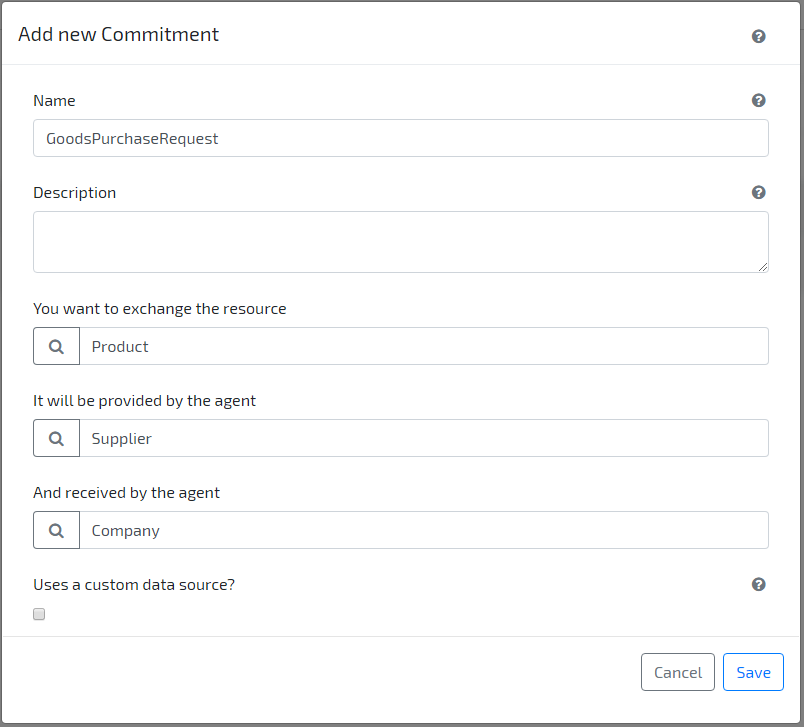
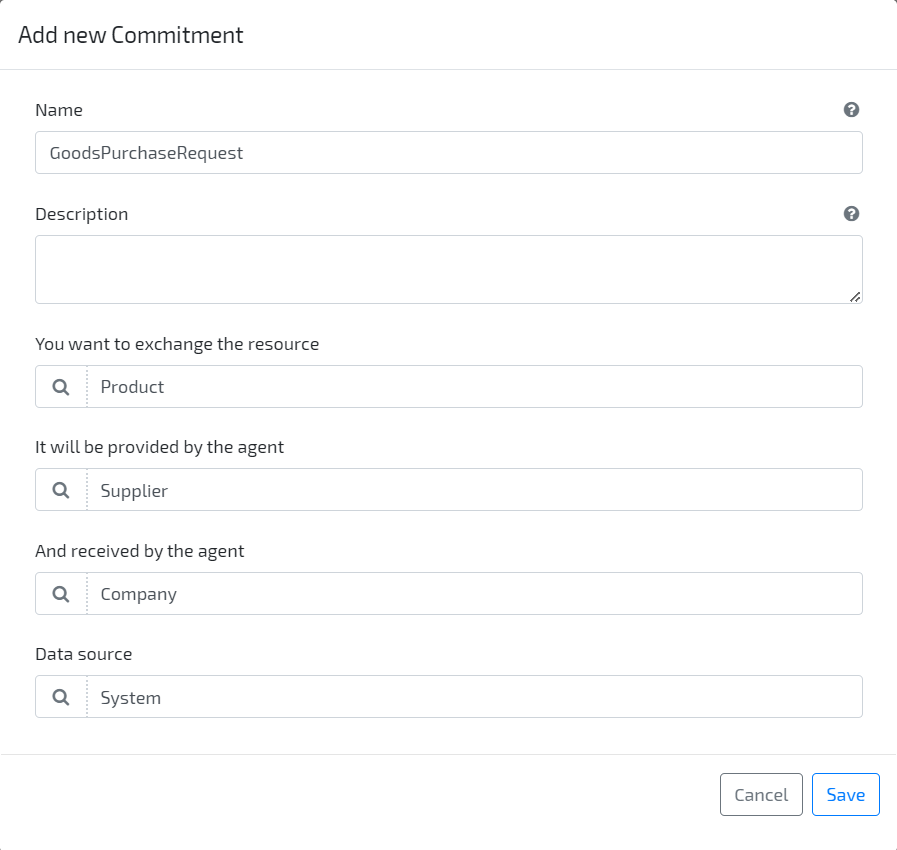
Updated tutorials

diff --git a/docs/pages/omnia3/Tutorials/omnia3_advancedtutorial.md b/docs/pages/omnia3/Tutorials/omnia3_advancedtutorial.md
@@ -27,37 +27,41 @@ It is necessary to have completed the steps in the [Beginner tutorial](omnia3_be
 
 1.  Go to the **Modeler** and edit the previously modeled document _PurchaseOrder_. Create a new **Attribute** by clicking the button **_Add new / Primitive_** on the top right side, and setting its **Name** and **Type** to **SupplierName** and **_Text_**, respectively. Set the attribute as **Read Only**.
 
-    ![Modeler_Create_Document_Attribute](/images/tutorials/advanced/nativeAPITutorial-1.jpg)
+    ![Modeler_Create_Document_Attribute](/images/tutorials/advanced/native-api-add-attribute.jpg)
 
-2.  Create a new **_Action Behaviour_** to fill the new attribute (on the _PurchaseOrder_ document, go to tab **Entity Behaviours** and click on **_Add new / (Action / Change)_**). Now let's use one of our development "Acelerators" to get our **_SupplierName_** from the **Agent**s attribute "**\_name**".
+2.  Create a new **_Action Behaviour_** to fill the new attribute (on the _PurchaseOrder_ document, go to tab **Entity Behaviours** and click on **_Add new / (Action / Change)_**). Now let's use one of our development "Acelerators" to get our **_SupplierName_** from the **Agents** attribute "**\_name**".
     Set its name **GetSupplierName**, and **Supplier** as the attribute that triggers the behaviour:
 
-        ![Acelerator_SelectionScreen](/images/tutorials/advanced/acelerators-selection.jpg)
+    ![Acelerator_SelectionScreen](/images/tutorials/advanced/acelerators-selection.jpg)
 
-        ![Acelerator_FilledFields](/images/tutorials/advanced/acelerators-getEntity-example.jpg)
+    ![Acelerator_FilledFields](/images/tutorials/advanced/accelerators-getEntity-example.jpg)
 
 The output of the **_Get Entity C#_** acelerator should be as follow:
 
-    ```C#
-    if(string.IsNullOrEmpty(this.Supplier?.ToString()))
-        return;
+   ```C#
+   // Code generated by an accelerator (you can change it if you need)
+   // The following code invokes the API to retrieve the data of an entity and set the values in the current entity
+   if(string.IsNullOrEmpty(this.Supplier?.ToString()))
+      return;
 
-    // In order to prevent to invoke the API if the values were sent by the user
-    if(
-        this._Dto.HasPropertyChanged(nameof(this.SupplierName))
-     )
-        return;
+   // In order to prevent to invoke the API if the values were sent by the user
+   if(
+      this._Dto.HasPropertyChanged(nameof(this.SupplierName))  
+   )
+      return;
 
-    var httpClient = this._Context.CreateApplicationHttpClient();
-    var requestResult = httpClient.GetAsync($"Supplier/Default/{this.Supplier}").GetAwaiter().GetResult();
+   var httpClient = this._Context.CreateApplicationHttpClient();
+   var dataSource = "Default";
 
-    if (!requestResult.IsSuccessStatusCode)
-    throw new Exception($"Can't retrieve the entity '{this.Supplier}'");
+   var requestResult = httpClient.GetAsync($"Supplier/{dataSource}/{this.Supplier}").GetAwaiter().GetResult();
 
-    var entity = requestResult.Content.ReadAsAsync<SupplierDto>().GetAwaiter().GetResult();
+   if (!requestResult.IsSuccessStatusCode)
+      throw new Exception($"Can't retrieve the entity '{this.Supplier}'");
 
-    this.SupplierName = entity._name;
-    ```
+   var entity = requestResult.Content.ReadAsAsync<SupplierDto>().GetAwaiter().GetResult();
+
+   this.SupplierName = entity._name;
+   ```
 
 3. Build & Deploy model
 
@@ -65,15 +69,15 @@ The output of the **_Get Entity C#_** acelerator should be as follow:
 
 ### External API
 
-1. Go to the **Modeler** and click on option **Data sources / System** to add references to this data source. Click on button **Add new > File Dependency** to add a new **Behaviour Dependency** for .NET assembly System.Net.Http
+1. Go to the **Modeler** and click on option **Business / Data sources / System** to add references to this data source. Click on button **Add new > File Dependency** to add a new **Behaviour Dependency** for .NET assembly System.Net.Http
 
-   ![Modeler Add_Dependency](/images/tutorials/advanced/Modeler-Add-Behaviour-Dependency.png)
+   ![Modeler Add_Dependency](/images/tutorials/advanced/Modeler-Add-Behaviour-Dependency.jpg)
 
 2. Edit the previously modeled resource _Product_. Create a new **Attribute** by clicking the button **Add new / Primitive** on the top right side, and setting its **Name** and **Type** to **Artist** and **_Text_**, respectively. Set the attribute as **Read Only**.
 
 3. Navigate to tab **Behaviour Namespaces** and add namespace System.Net.Http
 
-   ![Modeler Add_Namespace](/images/tutorials/advanced/Modeler-Add-Behaviour-Namespace.png)
+   ![Modeler Add_Namespace](/images/tutorials/advanced/Modeler-Add-Behaviour-Namespace.jpg)
 
 4. Create a new **Action Behaviour** to fill the new attribute (go to tab **_Entity Behaviours_** and click on **_Add new / Action_**). Set **_GetRecordData_** as **Name**, **_\_code_** as the attribute that triggers the behaviour, and paste the following code:
 
@@ -106,36 +110,36 @@ The output of the **_Get Entity C#_** acelerator should be as follow:
 
 6. Go to **Application** area, and create a new **Product** resource. Observe that, when **Code** is identified (e.g. try with value 8540), the **Name** and **Artist** is automatically retrieved.
 
-   ![Application_Create_Resource](/images/tutorials/advanced/Application-Create-Product.PNG)
+   ![Application_Create_Resource](/images/tutorials/advanced/Application-Create-Product.jpg)
 
 ## 4. Data Analysis
 
 ### Queries and Lists
 
-1. On your **Modeler** area, go to **_Data analytics / Queries_** and click on button **_Add New_** to create a new query. Set **ProductsArtists_Query** as _Name_ and **_Resource / Product_** as _Type_.
+1. On your **Modeler** area, go to **_Query / Queries_** and click on button **_Add New_** to create a new query. Set **ProductsArtists_Query** as _Name_ and **_Resource / Product_** as _Type_.
 
-   ![Modeler_Create_Query](/images/tutorials/advanced/Modeler-Create-Query.PNG)
+   ![Modeler_Create_Query](/images/tutorials/advanced/Modeler-Create-Query.jpg)
 
 2. Now open your query and click on **Add New** to add columns to it. Add a column with Alias **Code** and Path **\_code**.
 3. Repeat previous step to add columns with alias **Name** and **Artist**, whose Path is **\_name** and **artist**, respectively.
 
 4. On top right side, click on button **_More options / Generate list_** to create a new list based on the given query.
 
-   ![Modeler_Generate_List](/images/tutorials/advanced/Modeler-Generate-List.PNG)
+   ![Modeler_Generate_List](/images/tutorials/advanced/Modeler-Generate-List.jpg)
 
 ### Dashboards
 
-1. On your **Modeler** area, go to **_Data Analytics / Dashboards_** and click on button **Add New** to create a new dashboard. Set **Home** as Name, so that the dashboard is visible on application's homepage.
+1. On your **Modeler** area, go to **_User Interface / Dashboards_** and click on button **Add New** to create a new dashboard. Set **Home** as Name, so that the dashboard is visible on application's homepage.
 
-   ![Modeler_Create_Dashboard](/images/tutorials/advanced/Modeler-Create-Dashboard.PNG)
+   ![Modeler_Create_Dashboard](/images/tutorials/advanced/Modeler-Create-Dashboard.jpg)
 
-2. On the right sidebar select the first tab, the **+** sign, and then select the first tab below. Verify there is a **ProductsArtists_QueryList** option listed. Press and hold down the list then drop it into the **Home** Dashboard.
+2. On the right sidebar select the third tab, identifiable by the **+** sign, and then select the first tab below. Verify there is a **ProductsArtists_QueryList** option listed. Press and hold down the list then drop it into the **Home** Dashboard.
 
-   ![Modeler_Drag_List_Dashboard](/images/tutorials/advanced/Modeler-Drag-List-Dashboard.png)
+   ![Modeler_Drag_List_Dashboard](/images/tutorials/advanced/Modeler-Drag-List-Dashboard.jpg)
 
 3. Click on the list and change it's Label to **Products List** and Size to **6**. Don't forget to save your changes.
 
-   ![Modeler_Resize_List_Dashboard](/images/tutorials/advanced/Modeler-Resize-List-Dashboard.png)
+   ![Modeler_Resize_List_Dashboard](/images/tutorials/advanced/Modeler-Resize-List-Dashboard.jpg)
 
 4. **Build & Deploy** the model.
 

diff --git a/docs/pages/omnia3/Tutorials/omnia3_beginnertutorial.md b/docs/pages/omnia3/Tutorials/omnia3_beginnertutorial.md
@@ -29,17 +29,17 @@ If you do not have a tenant yet, please follow the steps of the [Tenant Creation
 
    ![Homepage_Dashboard](/images/tutorials/beginner/Modeler-Homepage.PNG)
 
-2. Through the left side menu, access the option **_Agents / Add New_** on the top right side, and set its _Name_ as **Company**.
+2. Through the left side menu, access the option **_Business / Agents_** and click on the top right side button **_Add new_**. Set its _Name_ as **Company**.
 
    ![Modeler_Create_Agent](/images/tutorials/beginner/Modeler-Create-Agent.PNG)
 
 3. Return to the **_Agents_** list and click on button **_Add new_** to add a new Agent. Set its _Name_ as **Supplier**.
 
-4. Through the left side menu, access the option **_Resources / Add new_** on the top right side, and set its _Name_ as **Product**.
+4. Through the left side menu, access the option **_Business / Resources_** and click on the top right side button **_Add new_**. Set its _Name_ as **Product**.
 
-5. "Build & Deploy" your model (top right corner of the modeling area).
+5. "Build & Deploy" your model (top right corner button of the modeling area).
 
-6. On the right side of the top bar, click the first button and select the option **_Application_** (Refresh the page so you can see the option). You'll be redirected to the application area.
+6. On the right side of the top bar, click the options button and select the option **_Application_** (Refresh the page so you can see the option). You'll be redirected to the application area.
 
    ![Modeler_Navigate_Application](/images/tutorials/beginner/Modeler-Navigate-Application.PNG)
 
@@ -51,17 +51,17 @@ If you do not have a tenant yet, please follow the steps of the [Tenant Creation
 
 9. Go back to the modeling area (**_Modeler_** - top right corner) and create a new **Commitment** with _Name_ set as **_GoodsPurchaseRequest_**, **Product** as the resource to be exchanged, **Supplier** as provider agent and **Company** as receiver agent.
 
-   ![Modeler_Create_Commitment](/images/tutorials/beginner/BeginnerTutorial-9.jpg)
+   ![Modeler_Create_Commitment](/images/tutorials/beginner/Modeler-Create-Commitment.PNG)
 
 10. Add a new attribute ([more info here](https://docs.omnialowcode.com/omnia3_modeler_entities.html)) by clicking on button **Add new / Primitive**. Set its _Name_ as **UnitPrice**, _Type_ as **_Decimal_**, and as required by checking option _Is required?_.
 
-    ![Modeler_Create_Attribute](/images/tutorials/beginner/BeginnerTutorial-10.jpg)
+    ![Modeler_Create_Attribute](/images/tutorials/beginner/Modeler-Create-Commitment-Attribute.jpg)
 
 11. Edit the attribute **\_amount**, and check option _Is read only?_.
 
 12. Click on tab **_Entity Behaviours_** and on button **Add new > Formula**. Set its _Name_ as **CalculateAmount**, attribute as **\_amount** and set as code to execute `return UnitPrice * _quantity;` (this will set \_amount to formula's result).
 
-13. Add a new document by selecting option **_Documents / Add new_**. Set **PurchaseOrder**, as the document's _Name_;
+13. Add a new document by selecting option **_Business / Documents / Add new_**. Set **PurchaseOrder**, as the document's _Name_;
 
 14. Click on **_Attributes / Add new / Collection_** in **Document**. Set its _Name_ as _OrderLines_, _Type_ as **Commitment > GoodsPurchaseRequest**.
 
@@ -73,7 +73,8 @@ If you do not have a tenant yet, please follow the steps of the [Tenant Creation
 
 17. Click the menu arrow to see the main menu and create a new **PurchaseOrder** by selecting the option **_Documents / PurchaseOrder -> Create New_** and filling in the needed fields.
 
-18. After saving your new document, go back to modeling area (by accessing top bar menu option **_Modeler_**) and edit the **PurchaseOrder** document to simplify its interface. Add a new attribute by clicking the button **Add new / Reference**. Set its _Name_ as **Company**, _Type_ as **_Agent / Company_**, and as required by checking option _Is required?_.
+18. After saving your new document, go back to modeling area (by accessing top bar menu option **_Modeler_**) and edit the **PurchaseOrder** document to simplify the introduction of new **_Purchase Orders_**. 
+Add a new attribute by clicking the button **Add new / Reference**. Set its _Name_ as **Company**, _Type_ as **_Agent / Company_**, and as required by checking option _Is required?_.
 
 19. Add **_Attribute / Add new / Reference_**. Set its _Name_ as **Supplier**, _Type_ as **_Agent / Supplier_**, and as required by checking option "_Is required?_".
 
@@ -84,7 +85,7 @@ If you do not have a tenant yet, please follow the steps of the [Tenant Creation
         entry._receiver = Company;
     ```
 
-21. Go to your **_PurchaseOrder_** **Document** User Interface by accessing the respective tab and reorganize them to simplify the interface (click on a element to edit/remove it or press and hold to drag and drop it). Remove the elements **Provider**, **Receiver** and **Code** from **OrderLines** element. At last, remove **Code** element UI from Document.
+21. Go to your **_PurchaseOrder_** **Document** form by accessing the menu option **_User Interface / Forms_** and edit the **PurchaseOrderForm**. Reorganize the attributes to simplify the interface (click on a element to edit/remove it or press and hold to drag and drop it). Remove the elements **Provider**, **Receiver** and **Code** from **OrderLines** element. At last, remove **Code** element UI from Document.
 
 22. Reorganize Rows and Columns, re-establishing the **size** and **position** of their elements:
 
